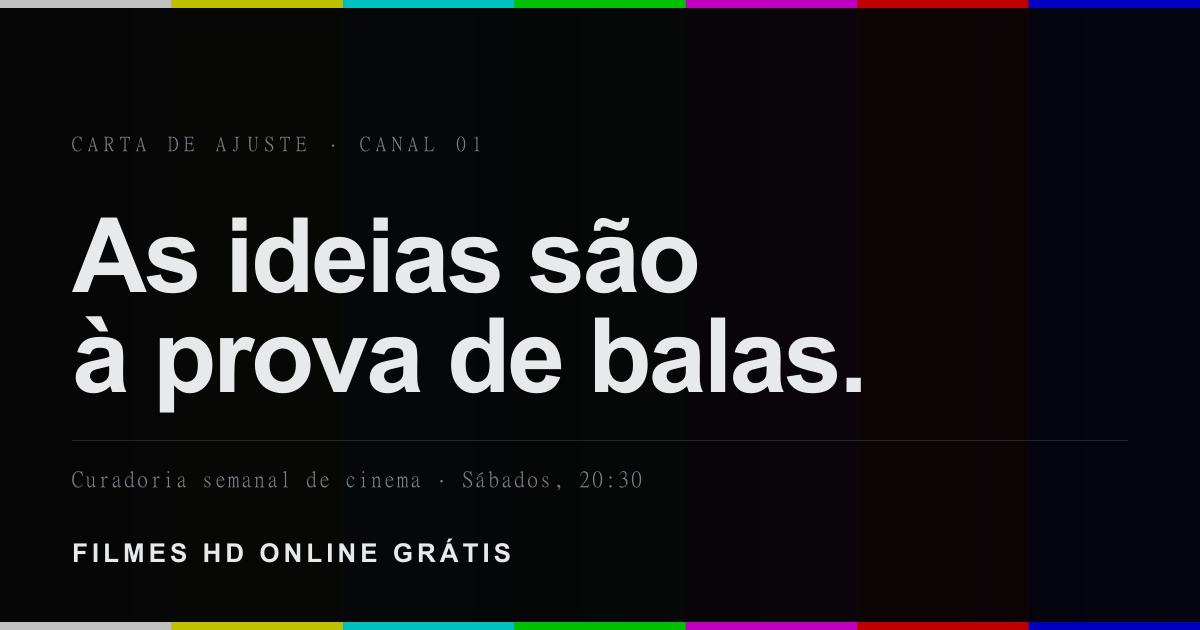
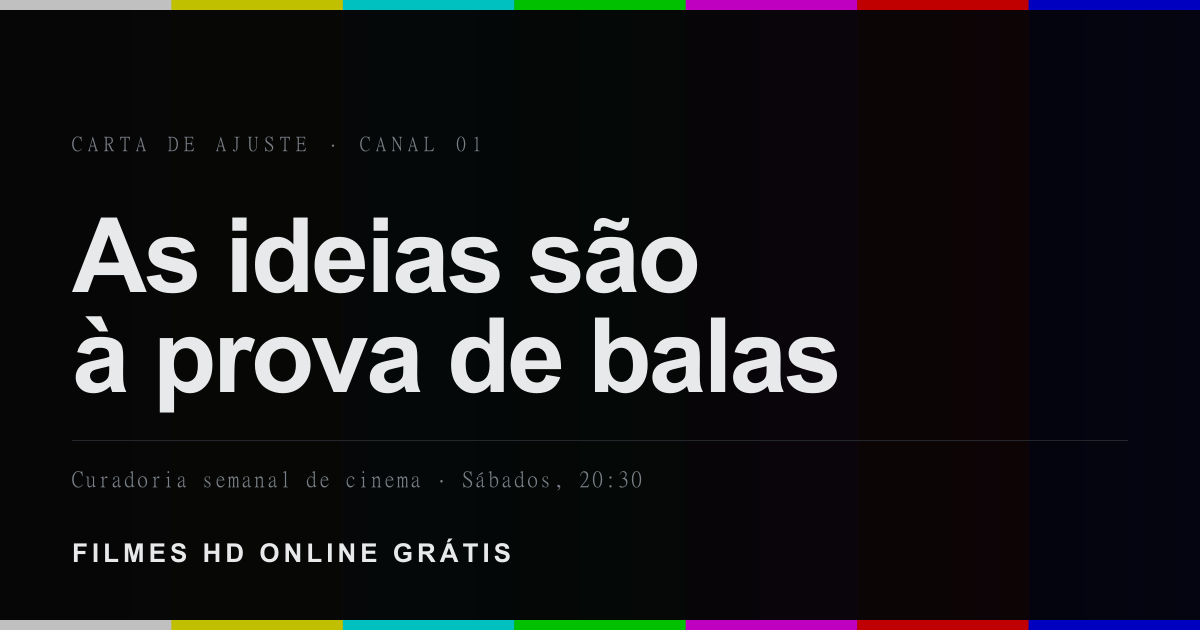
feat(social): cartão de compartilhamento por sessão
Um cartão por ficha, gerado em `npm run assets:social`: o pôster do filme ocupa a
imagem, dessaturado sob o mesmo véu do slate, com a barra SMPTE daquela sessão
como filete, a manchete, os títulos com ano, a data e as sete barras fechando
topo e base.

Quase todo link compartilhado é o de uma ficha, e repetir a marca genérica
catorze vezes não dizia nada sobre o que estava sendo compartilhado.

A faixa colorida da prévia
No Discord ela vem de `theme-color`, e é o único pedaço do cartão cujo estilo o
site controla — cor de título e de corpo são do cliente, não nossas. Agora cada
página passa a própria barra, então compartilhar uma sessão carrega a cor dela.

O domínio estava errado
Este era o defeito de fato: `SITE_URL` ainda apontava para o Netlify anterior,
então `og:image` e canonical referenciavam um domínio morto. A prévia saía sem
banner nenhum porque a imagem não existia no endereço anunciado. Corrigido para
o domínio da Vercel.

JPEG, não PNG
Os cartões saíam com 6,8 MB somados. O fundo é fotografia — o PNG guardava cada
grão do pôster sem ganho visível. Em JPEG a 82 são 724 kB.

robots.txt passa a excluir /admin/ e /auth/. O painel já responde 404 a quem não
administra, mas não há motivo para um rastreador gastar requisição descobrindo.

Changed region(s): [[0.0, 0.9651, 1.0, 0.9952], [0.0, 0.0, 1.0, 0.0302], [0.7092, 0.6032, 0.74, 0.6333]]

diff --git a/src/lib/site.ts b/src/lib/site.ts
@@ -6,7 +6,17 @@
  * Twitter. Agora existe um arquivo só, tipado, e o compilador reclama se algo faltar.
  */
 
-export const SITE_URL = 'https://filmeshdonlinegratis.netlify.app';
+/**
+ * Domínio de produção.
+ *
+ * Daqui saem canonical, Open Graph, sitemap e RSS — ou seja, é este valor que
+ * decide para onde aponta a imagem da prévia quando alguém compartilha um link.
+ * Enquanto ele apontava para o Netlify anterior, o `og:image` referenciava um
+ * domínio morto e a prévia saía sem banner nenhum.
+ *
+ * Ao trocar de domínio, troque aqui E nas Redirect URLs do Supabase.
+ */
+export const SITE_URL = 'https://filmeshdonlinegratis.vercel.app';
 
 export interface SocialLinks {
   readonly discord: string;

diff --git a/docs/DEPLOY.md b/docs/DEPLOY.md
@@ -130,7 +130,7 @@ real. Para falhas de login, **Supabase → Logs → Auth**.
 Depois que ele propagar, volte a **dois** lugares e troque o endereço:
 
 1. Supabase → *URL Configuration* → Site URL e Redirect URLs
-2. `src/lib/site.ts` → a constante `SITE_URL`
+2. `src/lib/site.ts` → a constante `SITE_URL` (hoje aponta para o domínio .vercel.app)
 
 O segundo importa mais do que parece: é dele que saem canonical, Open Graph,
 sitemap e RSS. Ficar para trás significa o buscador indexando o domínio antigo.
